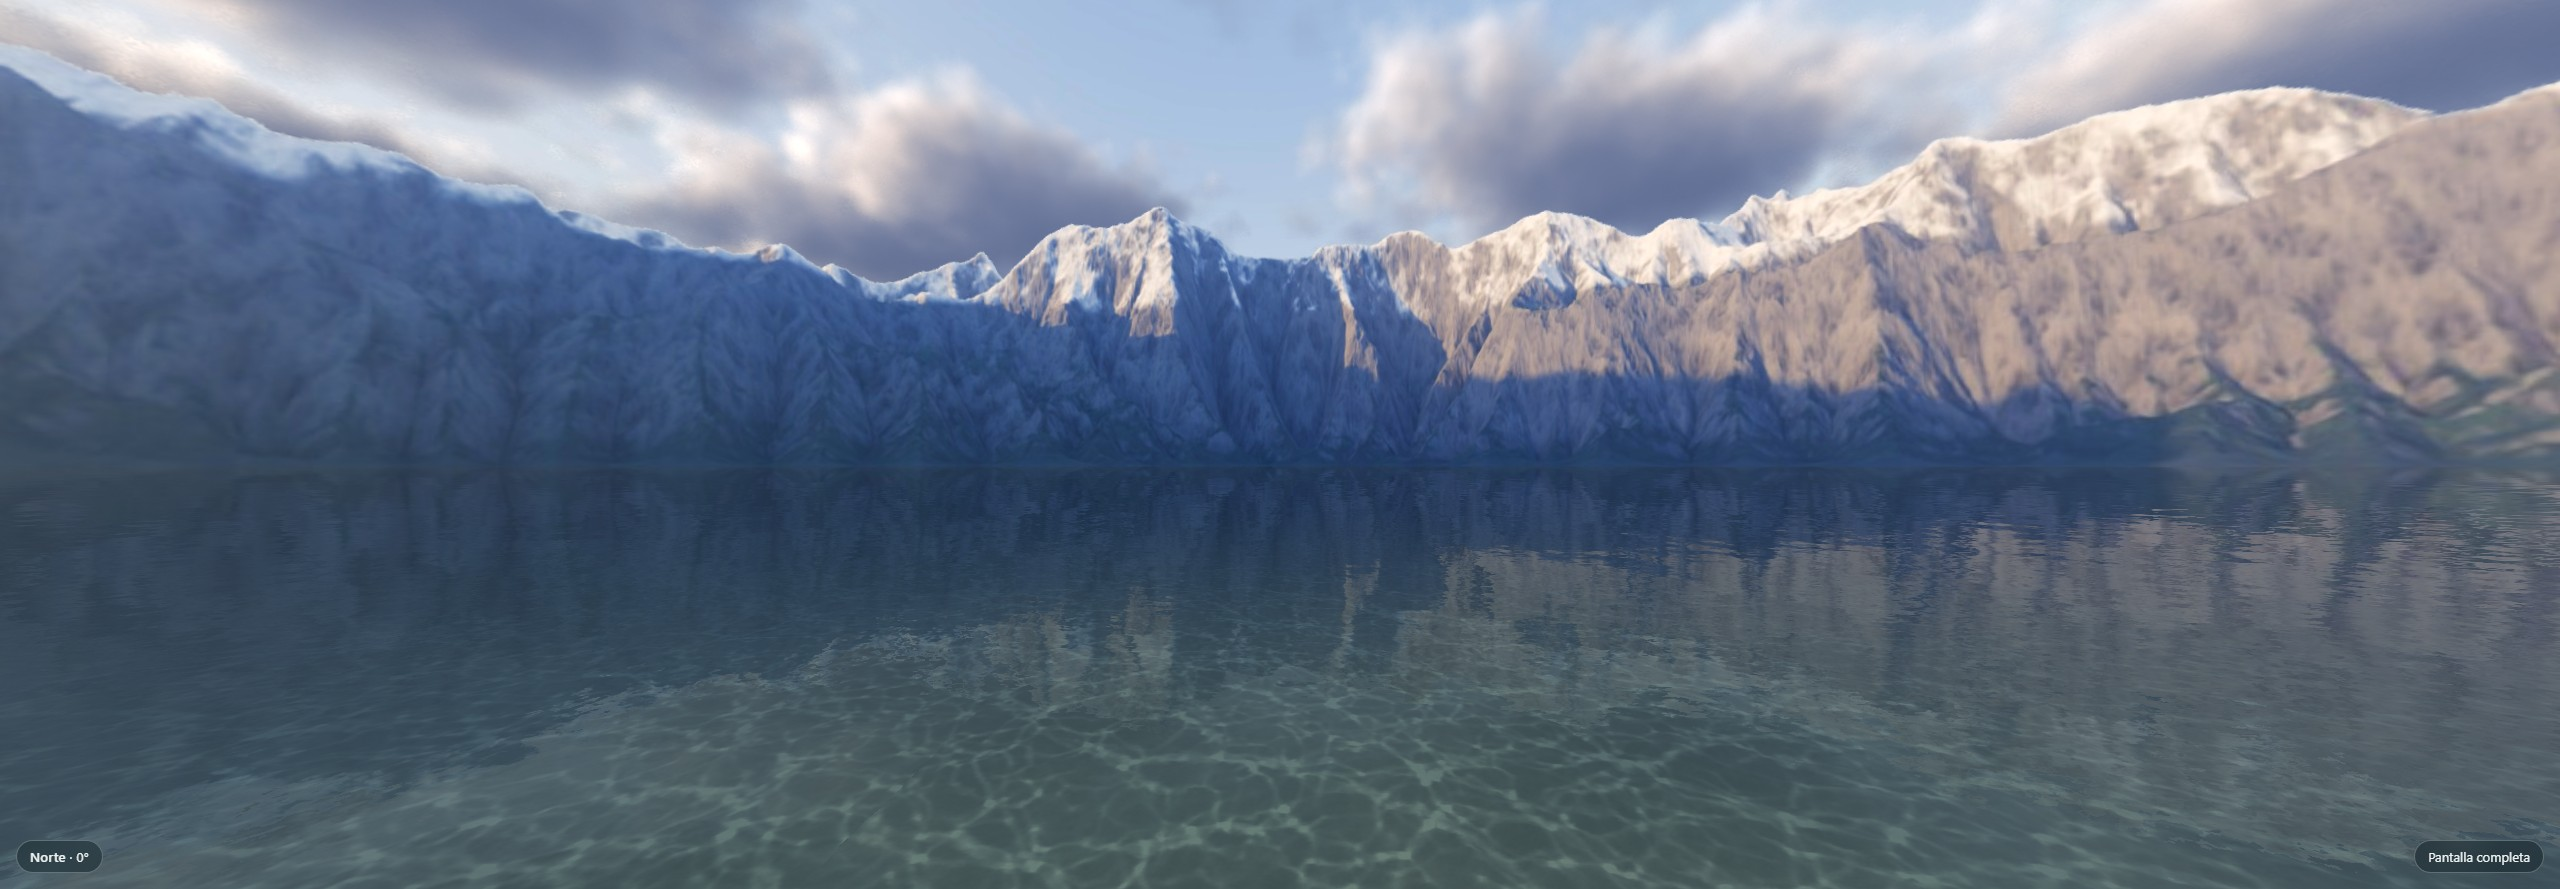
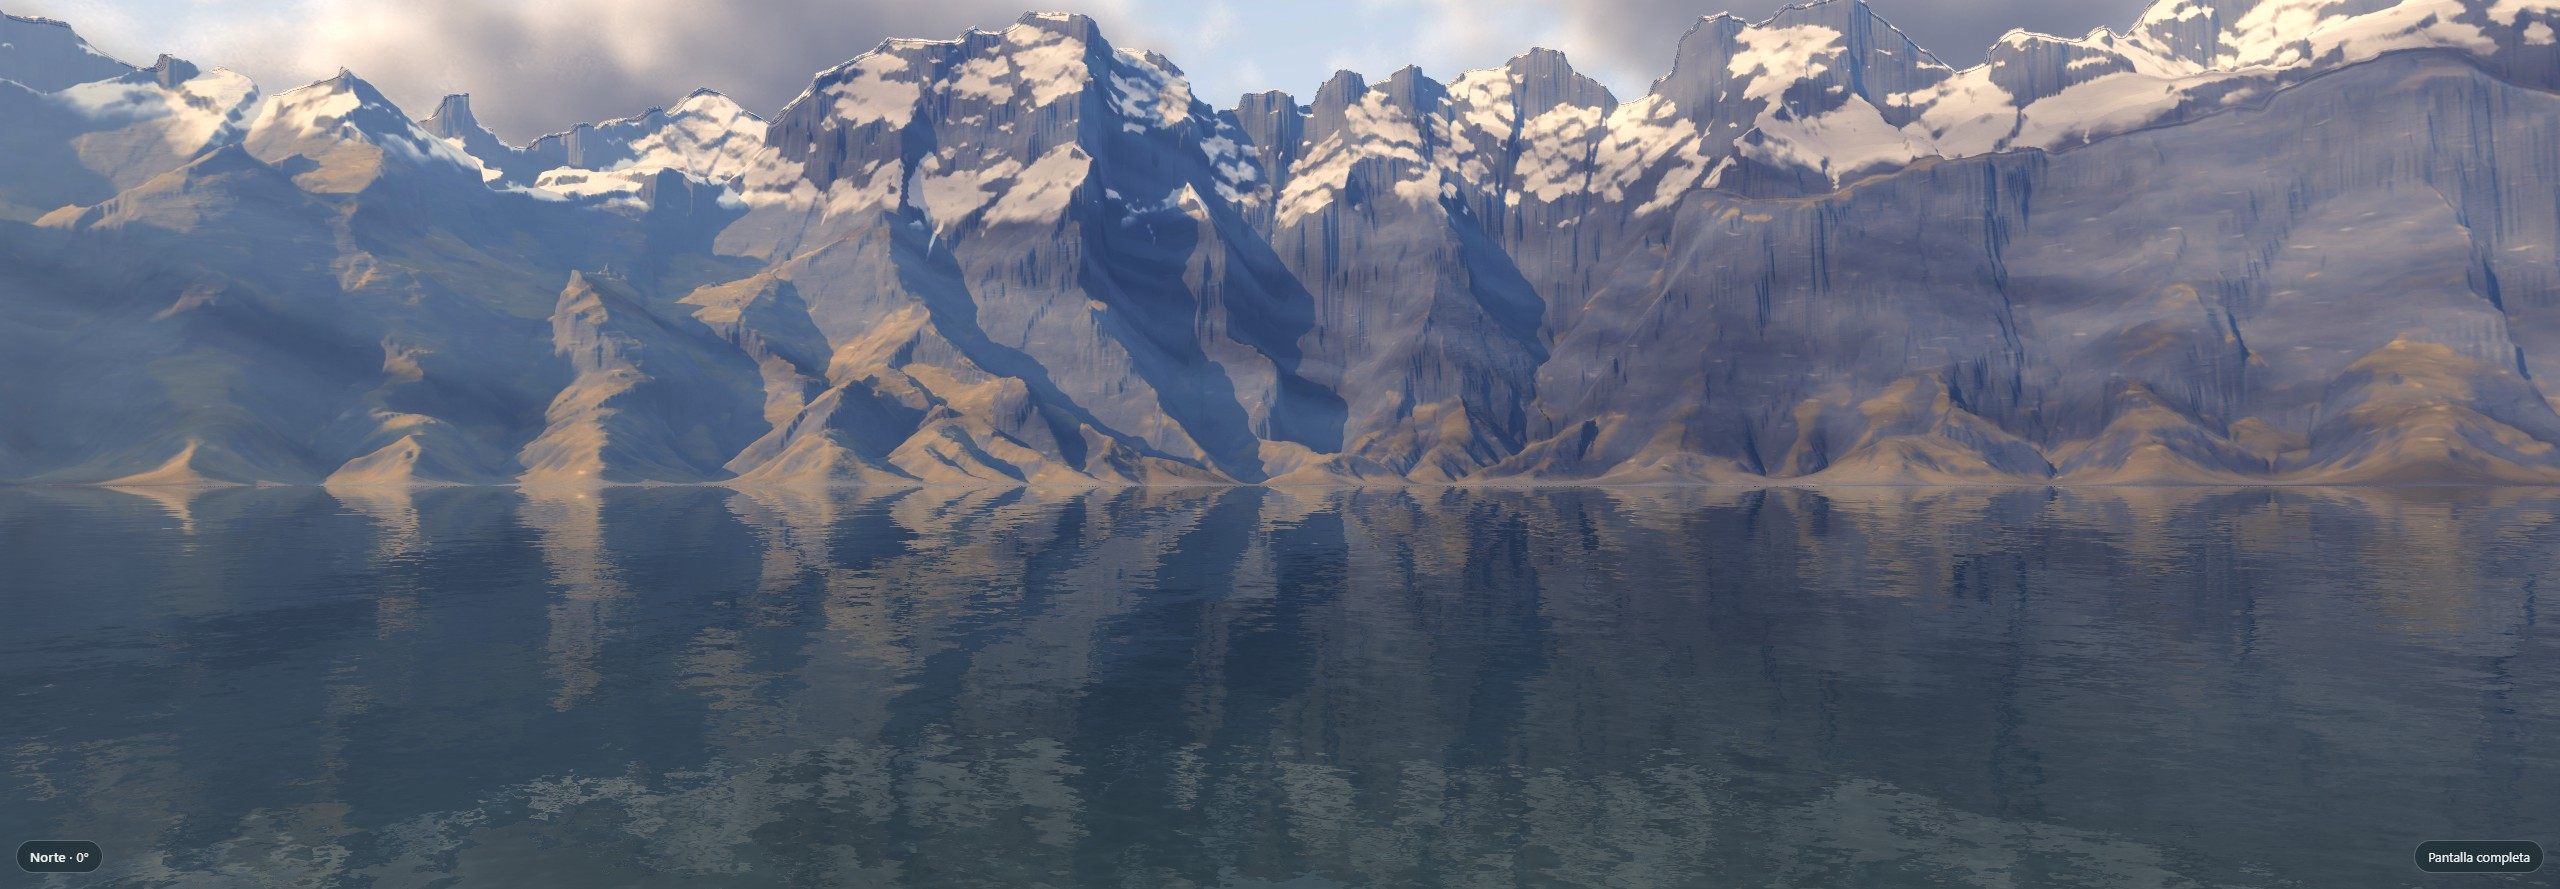
Release 1.2.1: natural surface lessons for Blender

diff --git a/skills/patterns-and-refactoring/references/idioms/blender-python.md b/skills/patterns-and-refactoring/references/idioms/blender-python.md
@@ -102,6 +102,8 @@ if not len(obj.evaluated_get(depsgraph).data.polygons):
 - **Name the scene explicitly.** A context override does not change which scene is rendered:
   use `blender -b file -S scene`.
 - **Time one frame before committing to a sequence**, and test the encoder on a tiny one.
+- **Watch memory, and stop only your own jobs.** A failed allocation can leave a hung process
+  holding the RAM. Build expensive data outside Blender when a small script can compute it.
 
 ---
 
@@ -118,6 +120,17 @@ When the viewer cannot move, detail belongs where it lands on screen, not evenly
   its pixels. A shader that derives the surface point from the view direction stays sharp.
 
 ---
+
+## Natural surfaces
+
+- **Rock is planes, not noise.** Erosion alone gives rounded clay. Replacing each Voronoi cell with
+  the tangent plane at its seed, coarse to fine, gives real faces and sharp edges. Cap the plane
+  slope, or snow has nowhere to settle.
+- **Do not measure cliffs from above.** Noise sampled on x and y smears down steep walls. Sample
+  it along the wall, using height as one axis.
+- **Keep detail above the mesh's sampling limit.** Height detail finer than the spacing combs.
+  Put it in the material, where it is evaluated per pixel.
+- **Light from the side.** A sun behind the camera flattens any relief.
 
 ## Signs you are working against the tool
 

diff --git a/README.md b/README.md
@@ -5,7 +5,7 @@
 [![License: MIT](https://img.shields.io/badge/License-MIT-yellow.svg)](LICENSE)
 [![Claude Code](https://img.shields.io/badge/Claude%20Code-skill-8A63D2)](https://docs.claude.com/en/docs/claude-code)
 [![Plugin](https://img.shields.io/badge/plugin-patterns--and--refactoring%40christianpasinrey-8A63D2)](#recommended--plugin-from-the-marketplace)
-[![Version](https://img.shields.io/badge/version-1.2.0-8A63D2)](#changelog)
+[![Version](https://img.shields.io/badge/version-1.2.1-8A63D2)](#changelog)
 [![Standalone](https://img.shields.io/badge/dependencies-none-brightgreen)](#installation)
 [![Catalogues](https://img.shields.io/badge/catalogues-12-blue)](#whats-inside)
 [![References](https://img.shields.io/badge/reference%20files-42-blue)](#repository-layout)
@@ -615,6 +615,10 @@ The result: one repo, one clone, one source of truth. `install.sh`, the manual c
 ---
 
 ## Changelog
+
+### 1.2.1 — 2026-10-31
+
+- `idioms/blender-python.md`: lessons on natural terrain and long headless jobs, from a second round on the showcase scene.
 
 ### 1.2.0 — 2026-10-31
 
